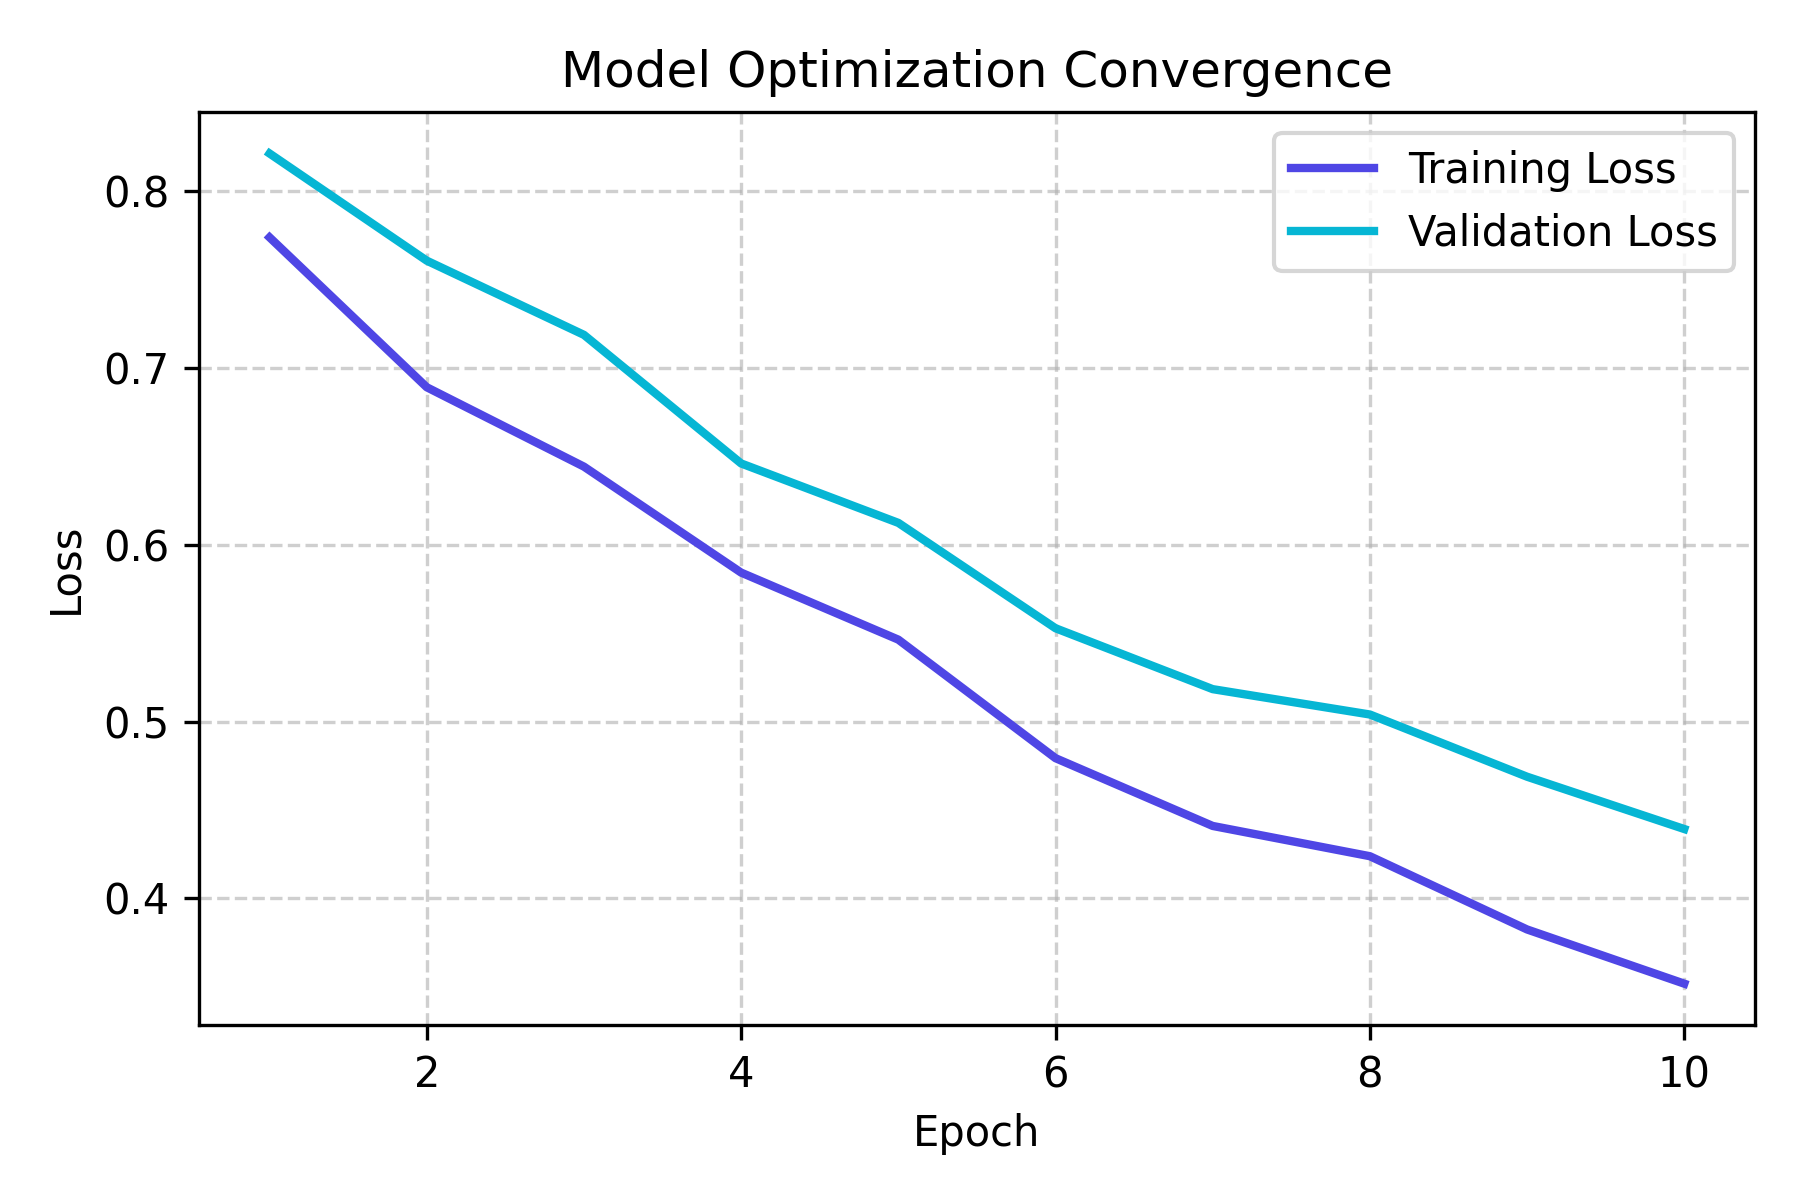
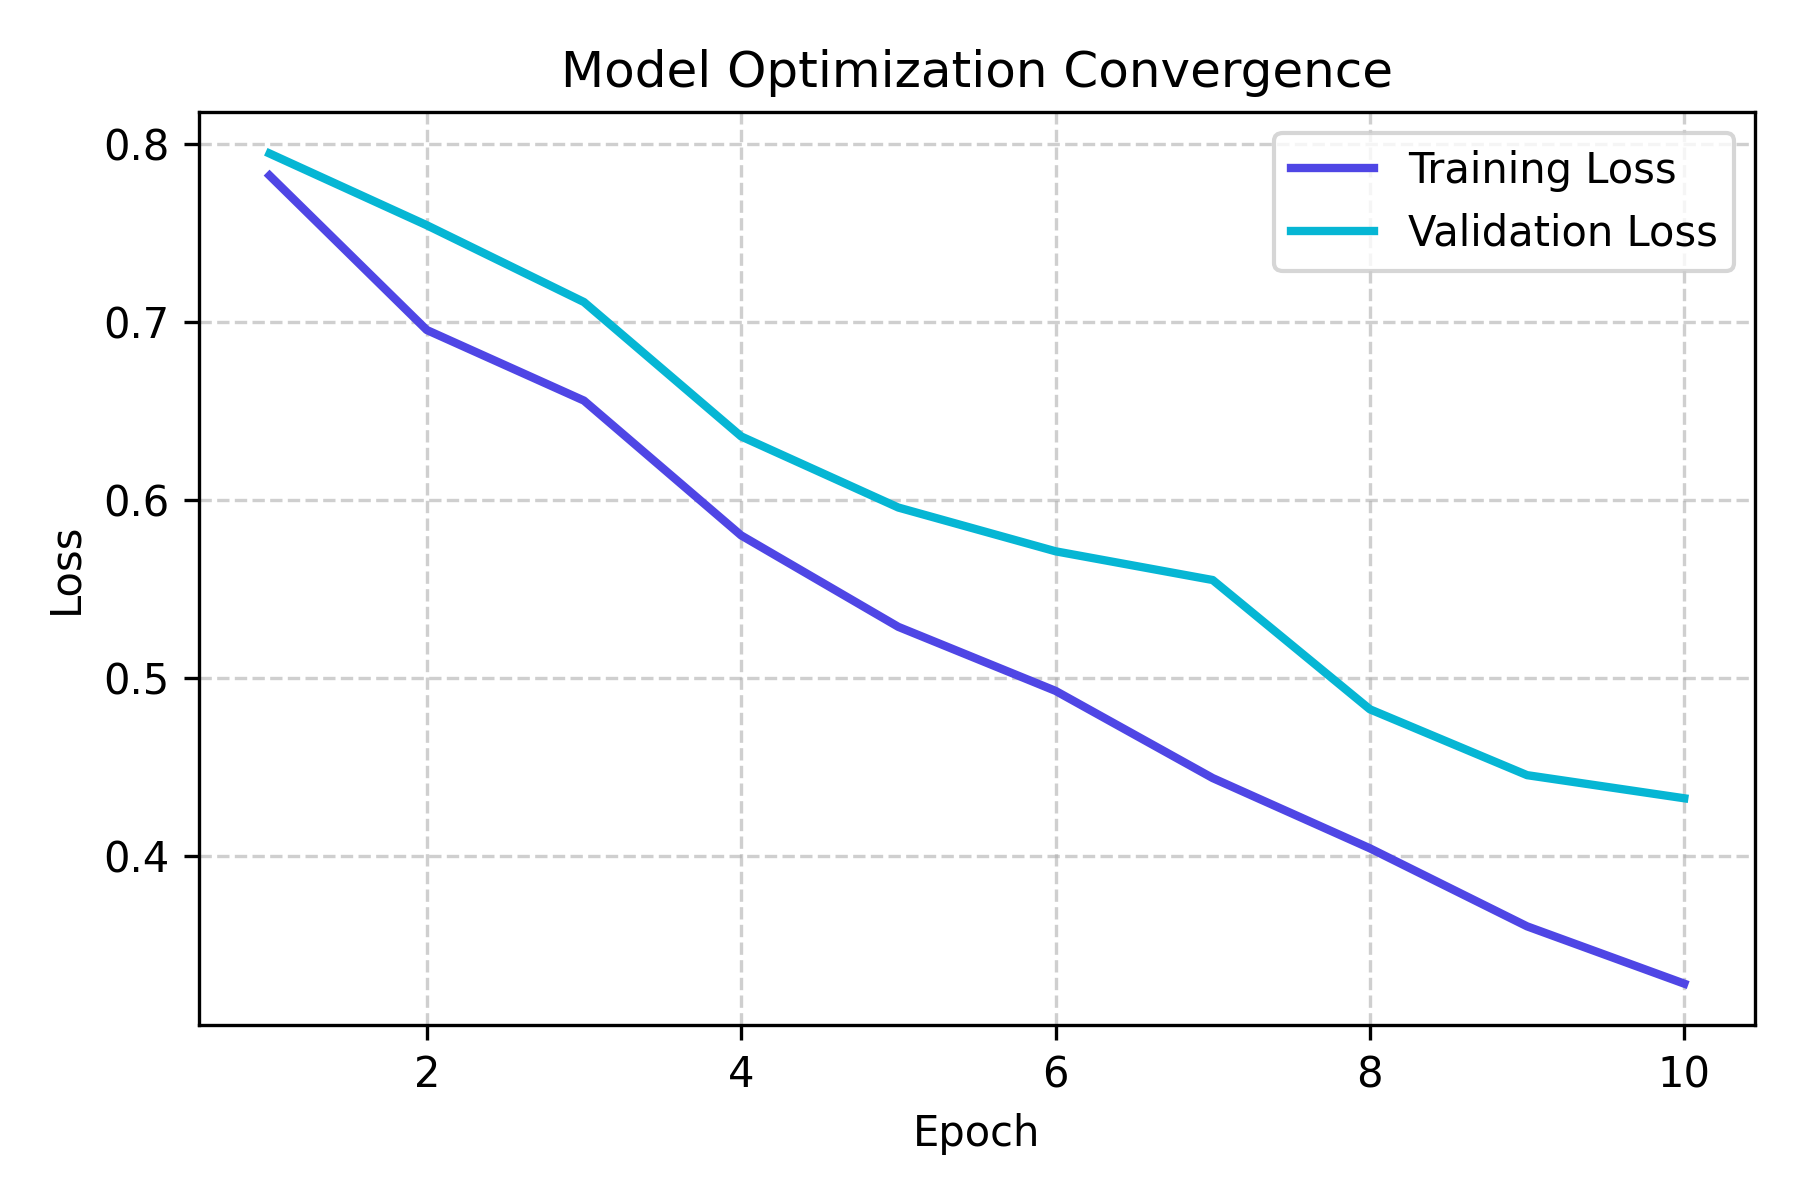
chore: System audit pass — verified all master test suites, zero lint/build errors

diff --git a/backend/reports_output/report_1.md b/backend/reports_output/report_1.md
@@ -1,0 +1,20 @@
+# Cognitive Classroom Analytics Report
+
+**Report ID**: 1
+**Report Type**: ENGAGEMENT
+**Generated At**: 2026-08-29T04:44:02.913586+00:00
+
+## Executive Summary
+This document summarizes classroom engagement indicators and environmental parameters recorded during lecture session #1.
+
+## 1. Behavioral Engagement Indicators
+- **Average Student Attention**: 75.0%
+- **Average Student Confusion**: 12.0%
+- **Average Student Distraction**: 10.0%
+
+## 2. Classroom Environment Comfort Metrics
+- **Average Noise Level**: 45.0 dB
+- **Average Lighting Level**: 80.0%
+
+## 3. Pedagogical Recommendations
+The confusion level was optimal. It is recommended to review prerequisite slide materials and walk around teaching zones to increase interaction.
